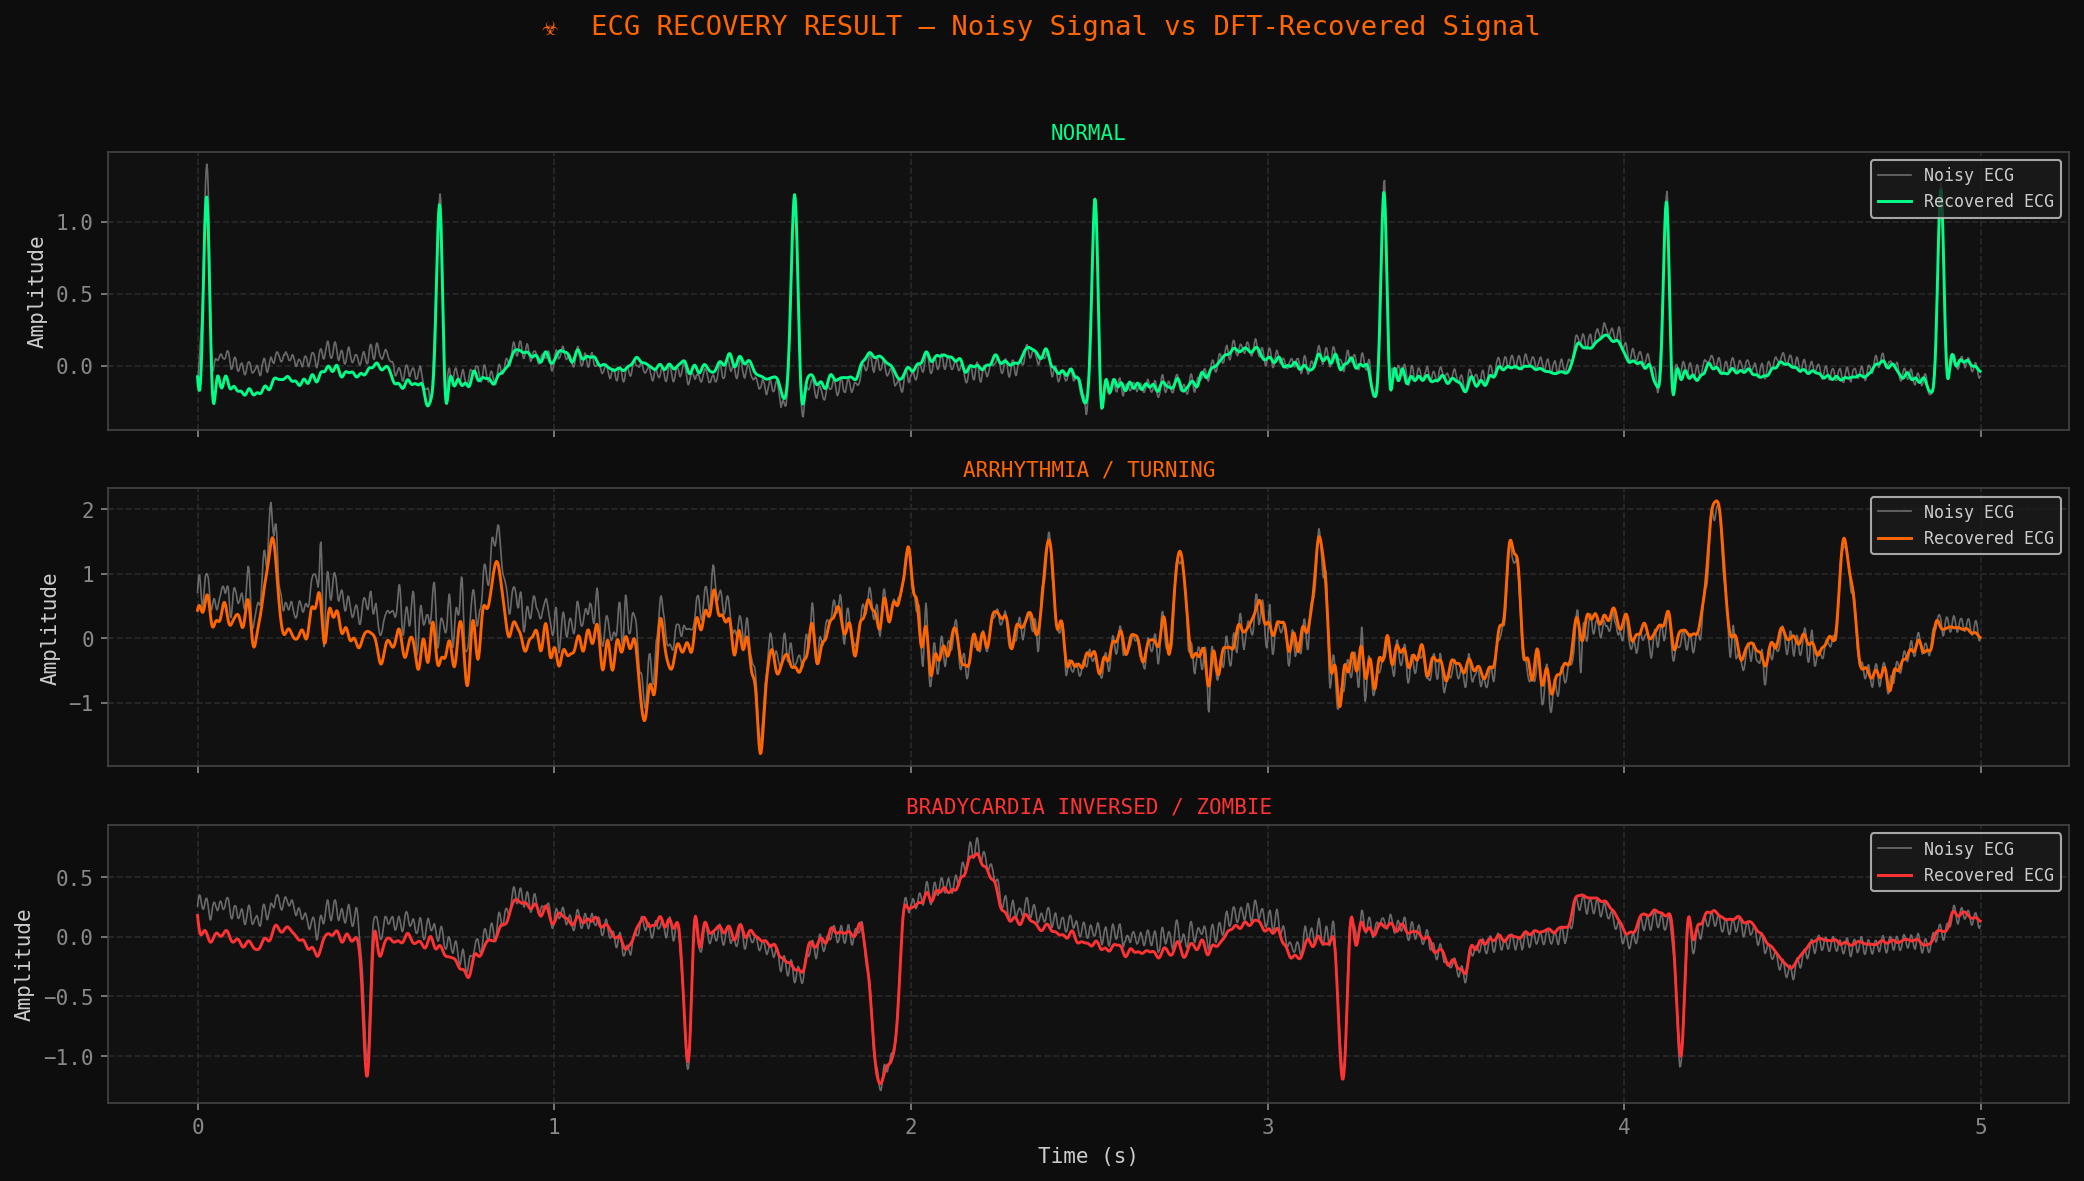
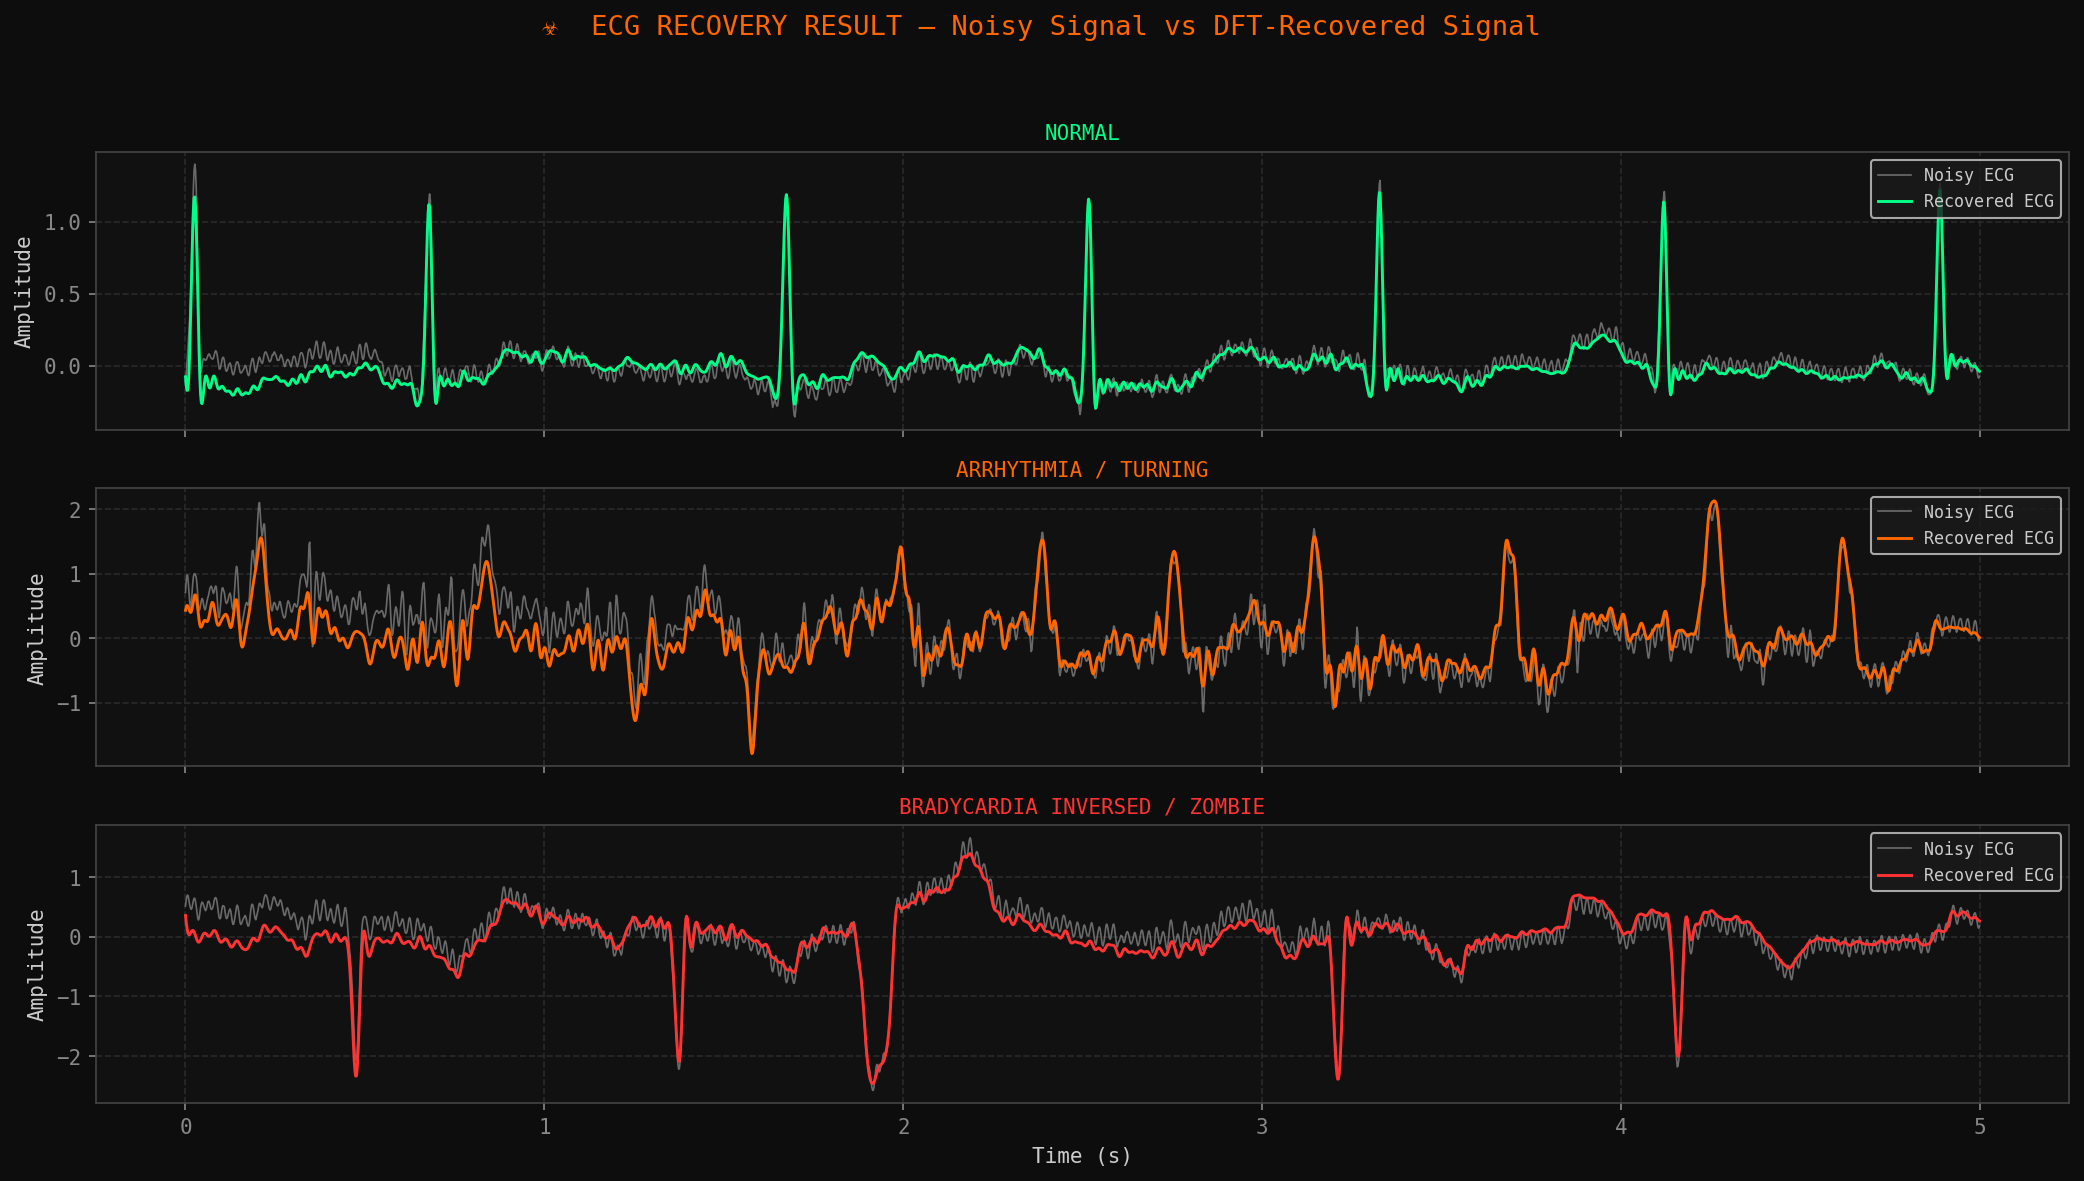
removing notch bc the bandpass alr removes it

diff --git a/dft_filter.py b/dft_filter.py
@@ -32,25 +32,12 @@ def dft_bandpass(signal, fs, f_low=0.5, f_high=45.0):
     return filtered, X_filtered, freqs
 
 
-def dft_notch(signal, fs, f_notch=50.0, bandwidth=2.0):
+def recover_ecg(noisy_signal, fs, f_low=0.5, f_high=45.0):
     """
-    Remove frequencies around f_notch, for example 50 Hz power-line hum.
+    Recover ECG by keeping only the main ECG frequency band using the DFT.
+    Frequencies below f_low and above f_high are removed.
     """
-    X = np.fft.fft(signal)
-    freqs = np.fft.fftfreq(len(signal), d=1/fs)
-
-    notch_mask = np.abs(np.abs(freqs) - f_notch) < bandwidth / 2
-    X[notch_mask] = 0
-
-    return np.fft.ifft(X).real
-
-
-def recover_ecg(noisy_signal, fs, f_low=0.5, f_high=45.0, notch_hz=50.0):
-    """
-    Recover ECG by first removing 50 Hz hum, then applying a DFT bandpass.
-    """
-    after_notch = dft_notch(noisy_signal, fs, f_notch=notch_hz)
-    recovered, X_recovered, freqs = dft_bandpass(after_notch, fs, f_low, f_high)
+    recovered, X_recovered, freqs = dft_bandpass(noisy_signal, fs, f_low, f_high)
 
     X_noisy = np.fft.fft(noisy_signal)
 

diff --git a/plots.py b/plots.py
@@ -151,10 +151,6 @@ def plot_dft_filter_explanation(freqs, X_noisy, X_recovered,
 
     # Visual explanation regions. These are explanatory annotations; the exact
     # recovery parameters are implemented in dft_filter.py.
-    ax.axvspan(0.5, 40, color=COLORS["normal"], alpha=0.08,
-               label="ECG band kept")
-    ax.axvline(50, color=COLORS["bradycardia"], lw=1.2, linestyle="--",
-               label="50 Hz hum removed")
 
     ax.text(50.8, 0.92, "50 Hz\nnotch", color=COLORS["bradycardia"], fontsize=8,
             va="top")

diff --git a/ecg_signals.py b/ecg_signals.py
@@ -48,7 +48,7 @@ def generate_bradycardia(duration=10.0):
     It is inverted and reduced in amplitude for the zombie effect.
     """
     t, sig, _ = _load_record("119", duration=duration)
-    return t, -0.5 * sig
+    return t, -sig
 
 
 def generate_arrhythmia(duration=10.0):
